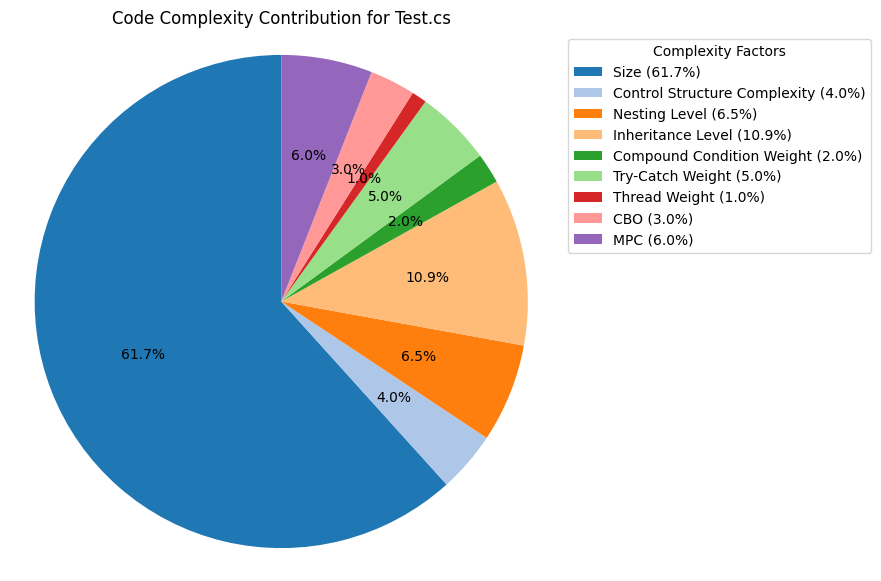
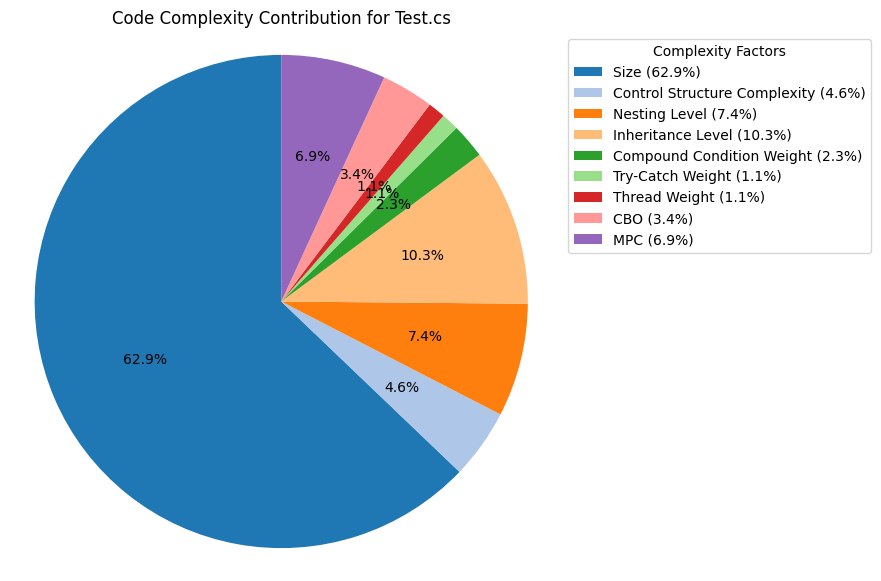
changes commited

diff --git a/templates/analysis_result.html b/templates/analysis_result.html
@@ -250,7 +250,7 @@
         <!-- Boxplot -->
         <section class="mb-5">
             <h2 class="text-primary">Boxplot of WCC by Complexity Level</h2>
-            <img src="{{ MEDIA_URL }}/media/boxplot.png" alt="Boxplot of WCC by Complexity Level" class="img-fluid rounded shadow">
+            <img src="{{ MEDIA_URL }}/media/boxplot_with_thresholds.png" alt="Boxplot of WCC by Complexity Level" class="img-fluid rounded shadow">
         </section>
 
         <!-- Heatmap -->

diff --git a/Drinks/views.py b/Drinks/views.py
@@ -371,15 +371,15 @@ def calculate_complexity(request):
             plt.close()
 
             # Calculate WCC thresholds using percentiles
-            low_threshold = data['WCC'].quantile(0.33)
-            high_threshold = data['WCC'].quantile(0.67)
-
-            # Assign percentile-based categories
-            data['Percentile_Level'] = pd.cut(
-                data['WCC'],
-                bins=[-float('inf'), low_threshold, high_threshold, float('inf')],
-                labels=['Low Complexity', 'Medium Complexity', 'High Complexity']
-            )
+            # low_threshold = data['WCC'].quantile(0.33)
+            # high_threshold = data['WCC'].quantile(0.67)
+            #
+            # # Assign percentile-based categories
+            # data['Percentile_Level'] = pd.cut(
+            #     data['WCC'],
+            #     bins=[-float('inf'), low_threshold, high_threshold, float('inf')],
+            #     labels=['Low Complexity', 'Medium Complexity', 'High Complexity']
+            # )
 
             # Clustering for WCC thresholds
             wcc_values = data['WCC'].values.reshape(-1, 1)
@@ -420,13 +420,26 @@ def calculate_complexity(request):
                 plt.close()
                 scatter_plots[column] = scatter_plot_path
 
-            # Boxplot to show WCC thresholds
-            plt.figure(figsize=(10, 6))
-            sns.boxplot(x='Percentile_Level', y='WCC', data=data)
-            boxplot_path = os.path.join(media_dir, 'boxplot.png')
-            plt.title('WCC by Complexity Level')
-            plt.savefig(boxplot_path)
-            plt.close()
+                # Boxplot to show WCC thresholds with KMeans cluster thresholds
+                plt.figure(figsize=(10, 6))
+                sns.boxplot(x='Cluster_Level', y='WCC', data=data)
+
+                # Add horizontal lines for KMeans thresholds
+                plt.axhline(y=low_center, color='red', linestyle='--', label=f'Low Threshold ({round(low_center, 2)})')
+                plt.axhline(y=medium_center, color='orange', linestyle='--',
+                            label=f'Medium Threshold ({round(medium_center, 2)})')
+                plt.axhline(y=high_center, color='green', linestyle='--',
+                            label=f'High Threshold ({round(high_center, 2)})')
+
+                plt.title('WCC by Complexity Level with KMeans Thresholds')
+                plt.ylabel('WCC')
+                plt.xlabel('Cluster Level')
+                plt.legend()
+
+                # Save the updated boxplot
+                boxplot_path = os.path.join(media_dir, 'boxplot_with_thresholds.png')
+                plt.savefig(boxplot_path)
+                plt.close()
 
             # Prepare context for the result page
             context = {

diff --git a/Drinks/complexity_calculator_csharp.py b/Drinks/complexity_calculator_csharp.py
@@ -245,7 +245,7 @@ def calculate_try_catch_weight(java_code):
     control_regex = re.compile(r'\b(try|catch|finally)\b')
 
     # Weights for `catch` based on nesting levels
-    catch_weights = {1: 1, 2: 3, 3: 4, 4: 5}
+    catch_weights = {0: 1, 1: 1, 2: 3, 3: 4, 4: 5}
     finally_weight = 2
 
     for line_no, line in enumerate(lines, start=1):
